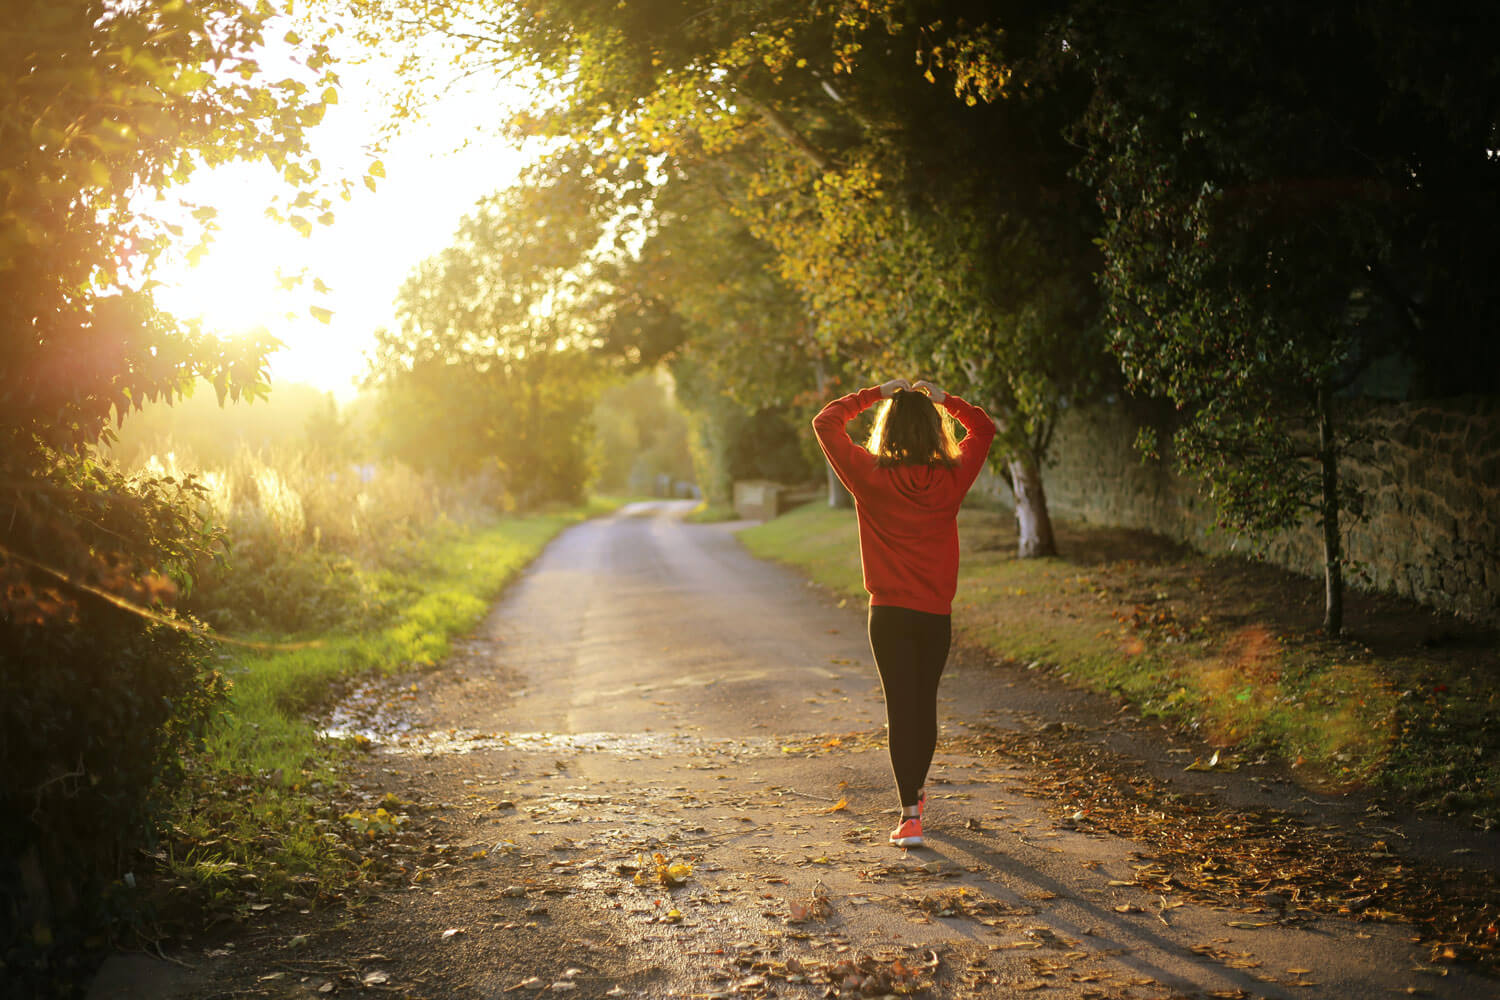
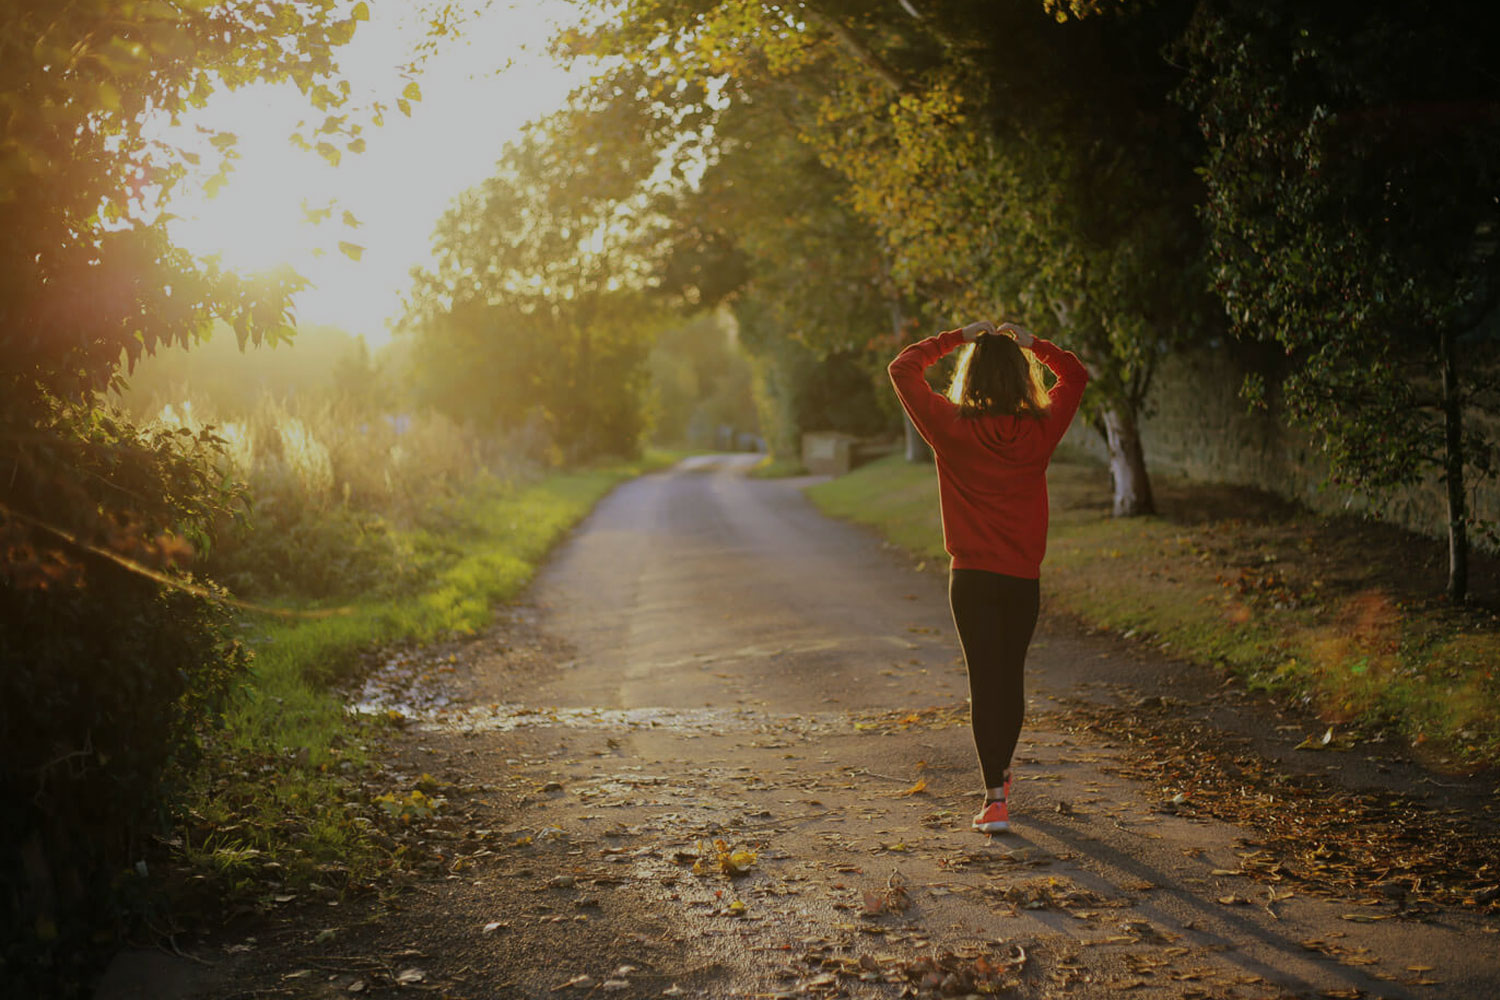
placehold

diff --git a/pages/index.js b/pages/index.js
@@ -10,7 +10,7 @@ const Home = () => {
       description=""
     >
       <section className="hero">
-        {HomeContent && <img src={HomeContent.heroImage} className="hero-bg-img" />}
+        {HomeContent && <img src={HomeContent.heroImage ? HomeContent.heroImage : "/images/test.jpg"} className="hero-bg-img" />}
         <div className={`container`}>
           <h1 className={`title size-h-xxl weight-600`}>{HomeContent ? HomeContent.title : "Hello World"}</h1>
         </div>

diff --git a/styles/main.scss b/styles/main.scss
@@ -103,6 +103,9 @@ button {
     .title {
       max-width: 750px;
       color: $white;
+      text-shadow: 0px 4px 3px rgba(0, 0, 0, 0.4),
+        0px 8px 13px rgba(0, 0, 0, 0.1),
+        0px 18px 23px rgba(0, 0, 0, 0.1);
     }
   }
 }

diff --git a/content/home.md b/content/home.md
@@ -1,15 +1,7 @@
 ---
 title: A Metabolic Approach to Health and Wellness
 heroImage: ""
-featuredImage: /uploads/placeholder-product.png
 buttons:
-  - external: false
-    title: Understand Your Physiology
-    link: /
-  - external: false
-    title: Facilitate Internal Healing
-    link: /
-  - external: false
-    title: Revolutionize Your Life Experience
+  - title: Get Started
     link: /
 ---
